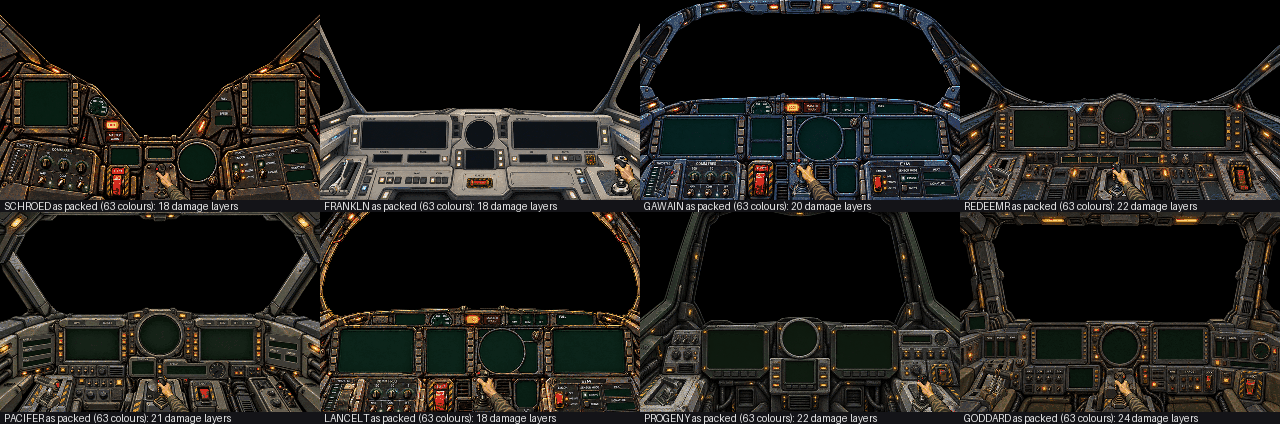
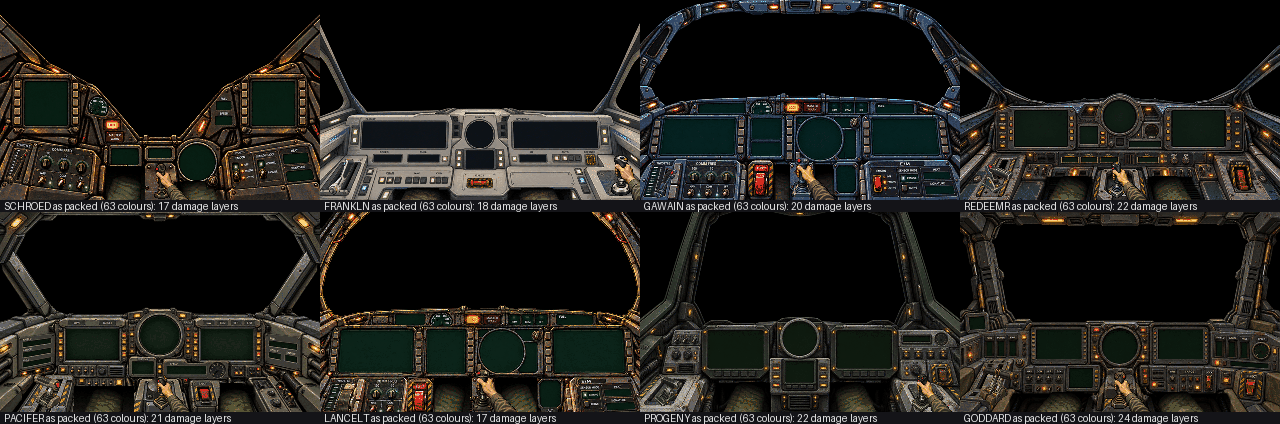
retrovega: the pilot's legs under the dash, fading to black in the footwells; room made for them in the Lancelot, Schroedinger and Pacifier
tools/legs.py (data/legs.json) paints them into each cockpit's base inside the
panels step: the footwells either side of the stick go dark from under the
dash, two legs in the sleeve's olive and creases come up from the bottom edge,
their knees rounding off into the dark (no shoes; the footpads mostly covered).
The Lancelot's EJECT box and NAV readout move out over the inner ends of its
COMM FREQ and E/M panels (its 1-knob and EMCON lamps go); the Schroedinger's
EJECT box and the Pacifier's lower-left panel (below its lamp row) are cut
away. Controls, labels and damage overlays move with a moved box or are
dropped under the legs (rvpack).

Claude-Session: https://claude.ai/code/session_01G4Q2wikrXfSbjoe64h5D9V

diff --git a/retrovega/tools/legs.py b/retrovega/tools/legs.py
@@ -1,0 +1,204 @@
+#!/usr/bin/env python3
+"""The pilot's legs under the dash (data/legs.json; tools/panels.py paints them into each cockpit's base).
+
+    legs.py [KEY ...] [--out PNG]        a sheet of the cockpits' lower halves, the legs painted, the hand on the stick
+
+The user's (2026-10-24): the footpads either side of the stick read as knees with nothing after them, as if the
+pilot's legs were curled back (in Goddard and Redeemer, legs against the control panel); the legs go on under the
+dash.  No shoes: they come up from the bottom edge in the flight suit's olive and fade out to black in the footwells,
+which go dark, the footpads mostly hidden.  Lancelot's COMM FREQ and E/M panels lose their inner ends for them, its
+EJECT box and NAV readout moved out into the room; the Schroedinger's EJECT box and the Pacifier's lower-left panel
+are cut away (the user's, the same day: no one-legged pilot).
+
+A cockpit's entry in data/legs.json:
+  moves   [x, y, w, h, dx, dy]: a box of the kit's art copied dx, dy along (from the art as it was, in order); a panel
+          control or a damage layer inside it goes with it
+  wells   the footwells: a polygon, deep (the row it is black from, under the dash) and near (the row it would be
+          lightest at, below the screen); fill: the art in it replaced (a panel cut away) rather than darkened;
+          feather: how many pixels in from its edge the dark comes in full (4)
+  legs    hip (below the screen) and knee, the half widths there, the well it shows in, light (1: a leg glimpsed
+          between two boxes is in their shade): the thigh and its knee, the shin on from it into the dark
+The rest of the base, the panels' controls and the damage layers are drawn in front of the legs: a control or a layer
+left inside a well is dropped (a layer's pixels there cleared).
+"""
+import argparse
+import json
+import os
+
+import numpy as np
+from PIL import Image, ImageDraw
+from scipy import ndimage
+
+HERE = os.path.dirname(os.path.abspath(__file__))
+ROOT = os.path.dirname(HERE)
+SPEC = os.path.join(ROOT, 'data', 'legs.json')
+SUIT = np.array([104, 101, 64], float)          # the sleeve's olive (the hand's poses, lit) - tone 1.0, full light
+FLOOR = np.array([30, 28, 22], float)           # a cut-away panel's footwell, nearest the pilot
+
+
+def load(key):
+    spec = json.load(open(SPEC))['cockpits']
+    return spec.get(key)
+
+
+def noise(shape, scale, seed):
+    r = np.random.default_rng(seed)
+    n = r.standard_normal((shape[0] // scale + 3, shape[1] // scale + 3))
+    n = ndimage.zoom(n, scale, order=3)[:shape[0], :shape[1]]
+    return (n - n.mean()) / n.std()
+
+
+def tube(shape, p0, p1, r0, r1, cap=0.55):
+    """a tapered tube p0 -> p1, half widths r0, r1, a foreshortened round end at p1: (inside, across -1..1,
+    along 0 at p0 .. 1 at p1 (more on the end), the distance along in pixels)"""
+    H, W = shape
+    yy, xx = np.mgrid[0:H, 0:W].astype(float)
+    d = np.array(p1, float) - p0
+    L = np.hypot(*d)
+    u = d / L
+    px, py = xx - p0[0], yy - p0[1]
+    t = (px * u[0] + py * u[1]) / L
+    s = -px * u[1] + py * u[0]
+    r = r0 + (r1 - r0) * np.clip(t, 0, 1)
+    inside = (np.abs(s) < r) & (t >= 0) & (t <= 1)
+    k = (t - 1) * L / (r1 * cap)
+    inside |= (t > 1) & (k ** 2 + (s / r1) ** 2 < 1)
+    return inside, np.clip(s / r, -1, 1), np.where(t > 1, 1 + np.clip(k, 0, 1) * 0.3, np.clip(t, 0, 1)), t * L
+
+
+def wells_mask(shape, spec):
+    out = []
+    for w in spec.get('wells', []):
+        im = Image.new('L', (shape[1], shape[0]), 0)
+        ImageDraw.Draw(im).polygon([tuple(p) for p in w['poly']], fill=255)
+        out.append(np.asarray(im) > 0)
+    return out
+
+
+def moved(rect, spec):
+    """a rectangle [x, y, w, h] (a control's, a layer's) as the moves leave it: (dx, dy) when it is inside a moved
+    box, else (0, 0)"""
+    x, y, w, h = rect
+    for bx, by, bw, bh, dx, dy in spec.get('moves', []):
+        if bx <= x and by <= y and x + w <= bx + bw and y + h <= by + bh:
+            return dx, dy
+    return 0, 0
+
+
+def covered(shape, spec):
+    """what the legs' work painted over: the wells and the moves' destinations"""
+    m = np.zeros(shape, bool)
+    for w in wells_mask(shape, spec):
+        m |= w
+    for bx, by, bw, bh, dx, dy in spec.get('moves', []):
+        m[max(0, by + dy):by + dy + bh, max(0, bx + dx):bx + dx + bw] = True
+    return m
+
+
+def fix_layer(x, y, im, spec):
+    """a damage layer as the legs leave it: moved with its box, or its pixels over the legs' work cleared (None:
+    nothing left)"""
+    dx, dy = moved([x, y, im.width, im.height], spec)
+    if dx or dy:
+        return x + dx, y + dy, im
+    a = np.asarray(im.convert('RGBA')).copy()
+    m = covered((400, 640), spec)[y:y + im.height, x:x + im.width]
+    a[m[:a.shape[0], :a.shape[1]]] = 0
+    if not (a[..., 3] >= 128).any():                   # (what a sprite keeps: rvpack)
+        return None
+    return x, y, Image.fromarray(a, 'RGBA')
+
+
+def paint(a, spec, seed=11):
+    """the base (H x W x 4, uint8) with the moves made, the wells dark and the legs in them"""
+    orig = a.copy()
+    out = a.copy()
+    H, W = a.shape[:2]
+    for bx, by, bw, bh, dx, dy in spec.get('moves', []):
+        out[by + dy:by + dy + bh, bx + dx:bx + dx + bw] = orig[by:by + bh, bx:bx + bw]
+    rgb = out[..., :3].astype(float)
+    yy = np.mgrid[0:H, 0:W][0].astype(float)
+    masks = wells_mask((H, W), spec)
+    depths, edges = [], []
+    for w, m in zip(spec.get('wells', []), masks):
+        edge = np.clip(ndimage.distance_transform_edt(m) / w.get('feather', 4.0), 0, 1)
+        depth = np.clip((w['near'] - yy) / (w['near'] - w['deep']), 0, 1)     # 1 deep under the dash, 0 nearest
+        if w.get('fill'):
+            grain = 1 + 0.12 * noise((H, W), 2, seed + 7)
+            floor = FLOOR[None, None, :] * ((1 - depth) ** 1.5 * grain)[..., None]
+            rgb[m] = floor[m]
+        else:
+            dark = np.clip(0.55 + 0.45 * depth, 0, 1) ** 0.8 * edge                # the footpads mostly hidden
+            rgb[m] = (rgb * (1 - dark[..., None]))[m]
+        depths.append(depth)
+        edges.append(edge)
+    warp = noise((H, W), 14, seed)
+    tone_n = noise((H, W), 11, seed + 1)
+    for leg in spec.get('legs', []):
+        i = leg.get('well', 0)
+        m, depth, edge = masks[i], depths[i], edges[i]
+        p0, p1 = np.array(leg['hip'], float), np.array(leg['knee'], float)
+        r0, r1 = leg['r']
+        inner = 1 if p1[0] < W / 2 else -1                  # (the side towards the stick: in its shadow)
+        lit = leg.get('light', 1.0)                         # (a leg glimpsed between two boxes: in their shade)
+        # the shin, on from the knee under the dash: down and away, in the dark
+        q = p1 + (p1 - p0) * 0.35
+        sin_, sacr, salong, _d = tube((H, W), p1, q, r1 * 0.9, r1 * 0.75, cap=0.8)
+        sin_ &= m
+        sh = lit * 0.4 * np.sqrt(1 - sacr ** 2) * (1 - 0.8 * np.clip(salong, 0, 1)) * (1 - depth) ** 1.2 * edge
+        rgb[sin_] = (SUIT[None, None, :] * sh[..., None])[sin_]
+        inside, across, along, dist = tube((H, W), p0, p1, r0, r1)
+        inside &= m
+        n = np.sqrt(1 - across ** 2)
+        # lit from the canopy, above and ahead: the thigh's top brightest, round to dark sides, the side towards the
+        # stick darker
+        light = 0.1 + 0.9 * np.clip(n ** 1.3 - 0.22 * across * inner, 0, 1)
+        light *= np.where(along > 1, 1.1 - 0.85 * (along - 1) / 0.3, 1.0)           # the knee turning away
+        light *= 1 + 0.18 * np.exp(-((along - 0.9) / 0.07) ** 2) * n ** 2            # its cap's highlight
+        # the cloth: soft creases slanting across the leg as across the sleeve, a seam down its outer side
+        phase = dist / 9.0 + 0.5 * across * inner + 0.25 * warp
+        f = 0.5 + 0.5 * np.sin(2 * np.pi * phase)
+        crease = np.clip((f - 0.4) / 0.6, 0, 1) * (0.16 + 0.14 * np.clip(along, 0, 1))
+        seam = 0.22 * np.exp(-((across * inner + 0.62) / 0.06) ** 2)
+        tone = (1 - crease) * (1 - seam) * (1 + 0.05 * tone_n)
+        fade = np.clip(1.2 - depth, 0, 1) ** 1.3 * edge                               # on into the dark
+        col = SUIT[None, None, :] * (lit * light * tone * fade)[..., None]
+        rgb[inside] = col[inside]
+    out[..., :3] = np.clip(rgb, 0, 255).astype(np.uint8)
+    return out
+
+
+def sheet(keys, path, panels_dir):
+    rows = []
+    for key in keys:
+        base = os.path.join(panels_dir, key, 'base.png')
+        im = Image.open(base).convert('RGBA')
+        sj = os.path.join(ROOT, 'art', 'cockpits', key, 'stick', 'stick.json')
+        if os.path.exists(sj):
+            p = json.load(open(sj))['poses'][4]
+            im.alpha_composite(Image.open(os.path.join(os.path.dirname(sj), p['file'])).convert('RGBA'), (p['x'], p['y']))
+        bg = Image.new('RGBA', im.size, (0, 0, 0, 255))
+        bg.alpha_composite(im)
+        rows.append((key, bg.convert('RGB').crop((0, 240, 640, 400))))
+    Z = 2
+    out = Image.new('RGB', (640 * Z, (160 * Z + 18) * len(rows)), (18, 18, 22))
+    d = ImageDraw.Draw(out)
+    for i, (key, im) in enumerate(rows):
+        y = i * (160 * Z + 18)
+        d.text((6, y + 3), key, fill=(255, 220, 120))
+        out.paste(im.resize((640 * Z, 160 * Z), Image.NEAREST), (0, y + 18))
+    out.save(path)
+
+
+def main():
+    ap = argparse.ArgumentParser()
+    ap.add_argument('keys', nargs='*')
+    ap.add_argument('--panels', default=os.path.join(ROOT, 'build', 'panels'))
+    ap.add_argument('--out', default=os.path.join(ROOT, 'build', 'legs.png'))
+    args = ap.parse_args()
+    keys = args.keys or list(json.load(open(SPEC))['cockpits'])
+    sheet(keys, args.out, args.panels)
+
+
+if __name__ == '__main__':
+    main()

diff --git a/retrovega/tools/panels.py b/retrovega/tools/panels.py
@@ -31,6 +31,8 @@ import numpy as np
 from PIL import Image, ImageDraw, ImageFont
 from scipy import ndimage
 
+import legs
+
 HERE = os.path.dirname(os.path.abspath(__file__))
 ROOT = os.path.dirname(HERE)
 FONT = os.path.join(ROOT, 'art', 'fonts', 'RobotoCondensed-Bold.ttf')
@@ -472,6 +474,57 @@ def rect_of(c):
     return [int(c['at'][0] - r), int(c['at'][1] - r), int(2 * r + 1), int(2 * r + 1)]
 
 
+def with_legs(spec, lg, cov):
+    """the spec as the legs leave it: a control (a knob of a set, a label) inside a moved box moved with it, one left
+    over the legs' work dropped"""
+    def place(x, y, w=1, h=1):          # (dx, dy), or None: dropped
+        dx, dy = legs.moved([x, y, w, h], lg)
+        if dx or dy:
+            return dx, dy
+        cx, cy = int(x + w / 2), int(y + h / 2)
+        return None if 0 <= cy < cov.shape[0] and 0 <= cx < cov.shape[1] and cov[cy, cx] else (0, 0)
+
+    spec = json.loads(json.dumps(spec))
+    controls = []
+    for c in spec['controls']:
+        if c['kind'] == 'arcs':
+            knobs = []
+            for k in c['knobs']:
+                d = place(k[0] - k[3], k[1] - k[3], 2 * k[3], 2 * k[3])
+                if d:
+                    knobs.append([k[0] + d[0], k[1] + d[1]] + k[2:])
+            if not knobs:
+                continue
+            c['knobs'] = knobs
+        elif c['kind'] != 'cabin':
+            d = place(*rect_of(c))
+            if d is None:
+                print('panels: %s at %s: under the legs, dropped' % (c['fn'], rect_of(c)[:2]))
+                continue
+            if 'rect' in c:
+                c['rect'] = [c['rect'][0] + d[0], c['rect'][1] + d[1]] + c['rect'][2:]
+            if 'at' in c:
+                c['at'] = [c['at'][0] + d[0], c['at'][1] + d[1]]
+        controls.append(c)
+    spec['controls'] = controls
+    for rl in spec.get('relabel', []):
+        erase = []
+        for x0, y0, x1, y1 in rl.get('erase', []):
+            d = place(x0, y0, x1 - x0, y1 - y0)
+            if d:
+                erase.append([x0 + d[0], y0 + d[1], x1 + d[0], y1 + d[1]])
+        rl['erase'] = erase
+        labels = []
+        for lab in rl.get('labels', []):
+            d = place(lab[1], lab[2])
+            if d:
+                labels.append([lab[0], lab[1] + d[0], lab[2] + d[1]] + lab[3:])
+        rl['labels'] = labels
+    spec['displays'] = [[r[0] + d[0], r[1] + d[1], r[2], r[3]] for r in spec.get('displays', [])
+                        for d in [place(*r)] if d]
+    return spec
+
+
 def build(key, spec, out_root):
     out_dir = os.path.join(out_root, key)
     os.makedirs(os.path.join(out_dir, 'states'), exist_ok=True)
@@ -484,6 +537,10 @@ def build(key, spec, out_root):
         patch = np.asarray(Image.open(os.path.join(os.path.dirname(sock), 'socket.png')).convert('RGBA'))
         sub = a[sj['y']:sj['y'] + patch.shape[0], sj['x']:sj['x'] + patch.shape[1]]
         sub[patch[..., 3] > 0] = patch[patch[..., 3] > 0]
+    lg = legs.load(key)
+    if lg:                              # (the pilot's legs under the dash, boxes moved for them: tools/legs.py)
+        a = legs.paint(a, lg)
+        spec = with_legs(spec, lg, legs.covered(a.shape[:2], lg))
     controls = spec['controls']
     # the base: relabelled, scales recoloured, needles painted out
     for rl in spec.get('relabel', []):

diff --git a/retrovega/tools/rvpack.py b/retrovega/tools/rvpack.py
@@ -48,6 +48,7 @@ HERE = os.path.dirname(os.path.abspath(__file__))
 ROOT = os.path.dirname(HERE)
 sys.path.insert(0, HERE)
 import cockpits  # noqa: E402
+import legs  # noqa: E402
 import panels  # noqa: E402
 import places  # noqa: E402
 
@@ -453,6 +454,14 @@ def pack_cockpits(pack, ships_csv, panels_dir):
         # (no broken stick or throttle: the user's, 2026-10-23 - they are unlikely to break; their systems' damage
         # shows on the panel)
         layers = [(e, Image.open(os.path.join(d, e['file'])).convert('RGBA')) for e in cj['damage'] if not e['attach']]
+        lg = legs.load(key)
+        if lg:                                  # (a layer moved with its box, or kept off the legs: tools/legs.py)
+            kept = []
+            for e, im in layers:
+                f = legs.fix_layer(e['x'], e['y'], im, lg)
+                if f:
+                    kept.append((dict(e, x=f[0], y=f[1]), f[2]))
+            layers = kept
         # the pilot's hand on the stick: nine poses (tools/joysticks.py), forward / middle / back x left / middle /
         # right
         sj = os.path.join(d, 'stick', 'stick.json')

diff --git a/retrovega/docs/engine.md b/retrovega/docs/engine.md
@@ -506,6 +506,28 @@ RV.DAT, a record each (`RvCockpit`, src/rvasset.h):
   screen's edge). The kit's socket is painted out of the base (its hole
   and collar filled with the plate round them, speckled like it): the new
   stick has its own base.
+- **The pilot's legs** (the user's, 2026-10-24: the footpads either side
+  of the stick read as knees with nothing after them, as if the legs were
+  curled back; in the Goddard and the Redeemer, legs against the
+  panel). `tools/legs.py` paints them into the base before the panel's
+  controls are made (data/legs.json): each footwell goes dark, black
+  from just under the dash and lighter towards the bottom edge, and a leg
+  in the sleeve's olive and creases comes up from below the screen. Each
+  leg's knee rounds off into the dark and its shin carries on under the
+  dash, so no shoes are drawn and most of each footpad is covered. Where
+  only a slot between two boxes is free (the Gawain's vents), the leg is
+  glimpsed there in their shade. The Schroedinger is lopsided: its right
+  leg is in the hollow under the radar and its left takes the EJECT box's
+  place (the user's: the wing may block an ejection anyway, and a one-legged
+  pilot looked wrong; Ctrl+E still ejects). The Pacifier's lower-left
+  panel is cut away below its lamp row, which stays as the dash's lip, its
+  afterburner and target lamps with it. The Lancelot's COMM FREQ and E/M panels lose their
+  inner ends (the user's pick): its EJECT box and NAV readout move out
+  over them and its legs take their old place. The 1-knob goes, so its
+  radio shows the hundreds and tens only, and so do the EMCON lamps (K
+  still works). A control, a label or a damage overlay inside a moved box
+  moves with it; one left under the legs is dropped, an overlay's pixels
+  there cleared.
 - **Damage:** every overlay is a sprite with a fixed bit
   (`tools/cockpits.py` BITS: 0 weapons MFD, 1 targeting MFD, 2 radar, ...
   23 canopy, 26 survival VDU), drawn while its bit of `rvCockpitDamage`
